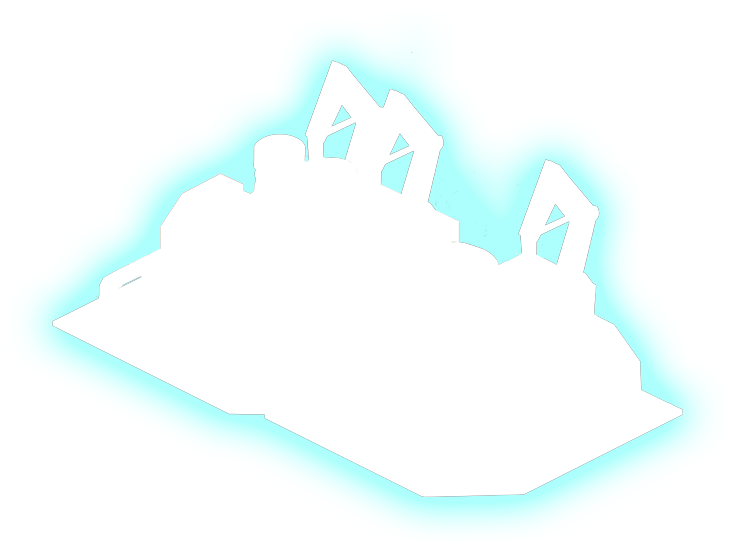
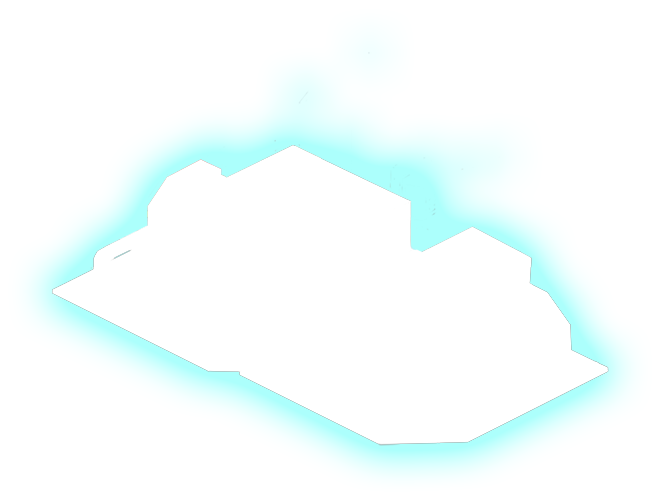
auto-factory

diff --git a/src/buildings/config.ts b/src/buildings/config.ts
@@ -77,6 +77,10 @@ import routerLevel1Img from './router/1.png';
 import routerLevel1Stroke from './router/1-stroke.png';
 import autoFactoryLevel1Img from './auto-factory/1.png';
 import autoFactoryLevel1Stroke from './auto-factory/1-stroke.png';
+import autoFactoryLevel2Img from './auto-factory/2.png';
+import autoFactoryLevel2Stroke from './auto-factory/2-stroke.png';
+import autoFactoryLevel3Img from './auto-factory/3.png';
+import autoFactoryLevel3Stroke from './auto-factory/3-stroke.png';
 import rtkLevel1Img from './rtk/1.png';
 import rtkLevel1Stroke from './rtk/1-stroke.png';
 import { ZIndexes } from '../components/root-component/z-indexes-enum';
@@ -563,7 +567,7 @@ export class BuildingsService {
     },
     [TowersTypes.FACTORY]: {
       info: 'info',
-      title: 'Салоный связи',
+      title: 'Салон связи',
       coords: [4933, 1921],
       zIndex: ZIndexes.BUILDING_ONE_LEVEL,
       maxLevel: TowerLevel.low,
@@ -764,32 +768,30 @@ export class BuildingsService {
       title: 'МТС авто',
       coords: [4293, 3233],
       zIndex: ZIndexes.BUILDING_TWO_LEVEL,
-      maxLevel: TowerLevel.low,
+      maxLevel: TowerLevel.high,
       [TowerLevel.low]: {
         img: autoFactoryLevel1Img,
+        width: 662,
+        height: 499,
+        shadowImg: autoFactoryLevel1Stroke,
+        areaCoords: '49,143,613,448',
+        position: [50.7, 49],
+      },
+      [TowerLevel.mid]: {
+        img: autoFactoryLevel2Img,
+        width: 737,
+        height: 550,
+        shadowImg: autoFactoryLevel2Stroke,
+        areaCoords: '41,59,688,498',
+        position: [50.5, 48.4],
+      },
+      [TowerLevel.high]: {
+        img: autoFactoryLevel3Img,
         width: 736,
         height: 550,
-        shadowImg: autoFactoryLevel1Stroke,
-        areaCoords: '136,196,602,481',
-        position: [52, 48],
-      },
-      // TODO: не настоящая картинка
-      [TowerLevel.mid]: {
-        img: bankLevel2Img,
-        width: 579,
-        height: 688,
-        shadowImg: bankLevel2Stroke,
-        areaCoords: '516,39,69,578',
-        position: [23.4, 66.4],
-      },
-      // TODO: не настоящая картинка
-      [TowerLevel.high]: {
-        img: airportLevel3Img,
-        width: 573,
-        height: 449,
-        shadowImg: airportLevel3Stroke,
-        areaCoords: '595,126,90,476',
-        position: [18.9, 28.3],
+        shadowImg: autoFactoryLevel3Stroke,
+        areaCoords: '51,55,682,499',
+        position: [50.5, 48.4],
       },
     },
     [TowersTypes.RTK]: {
